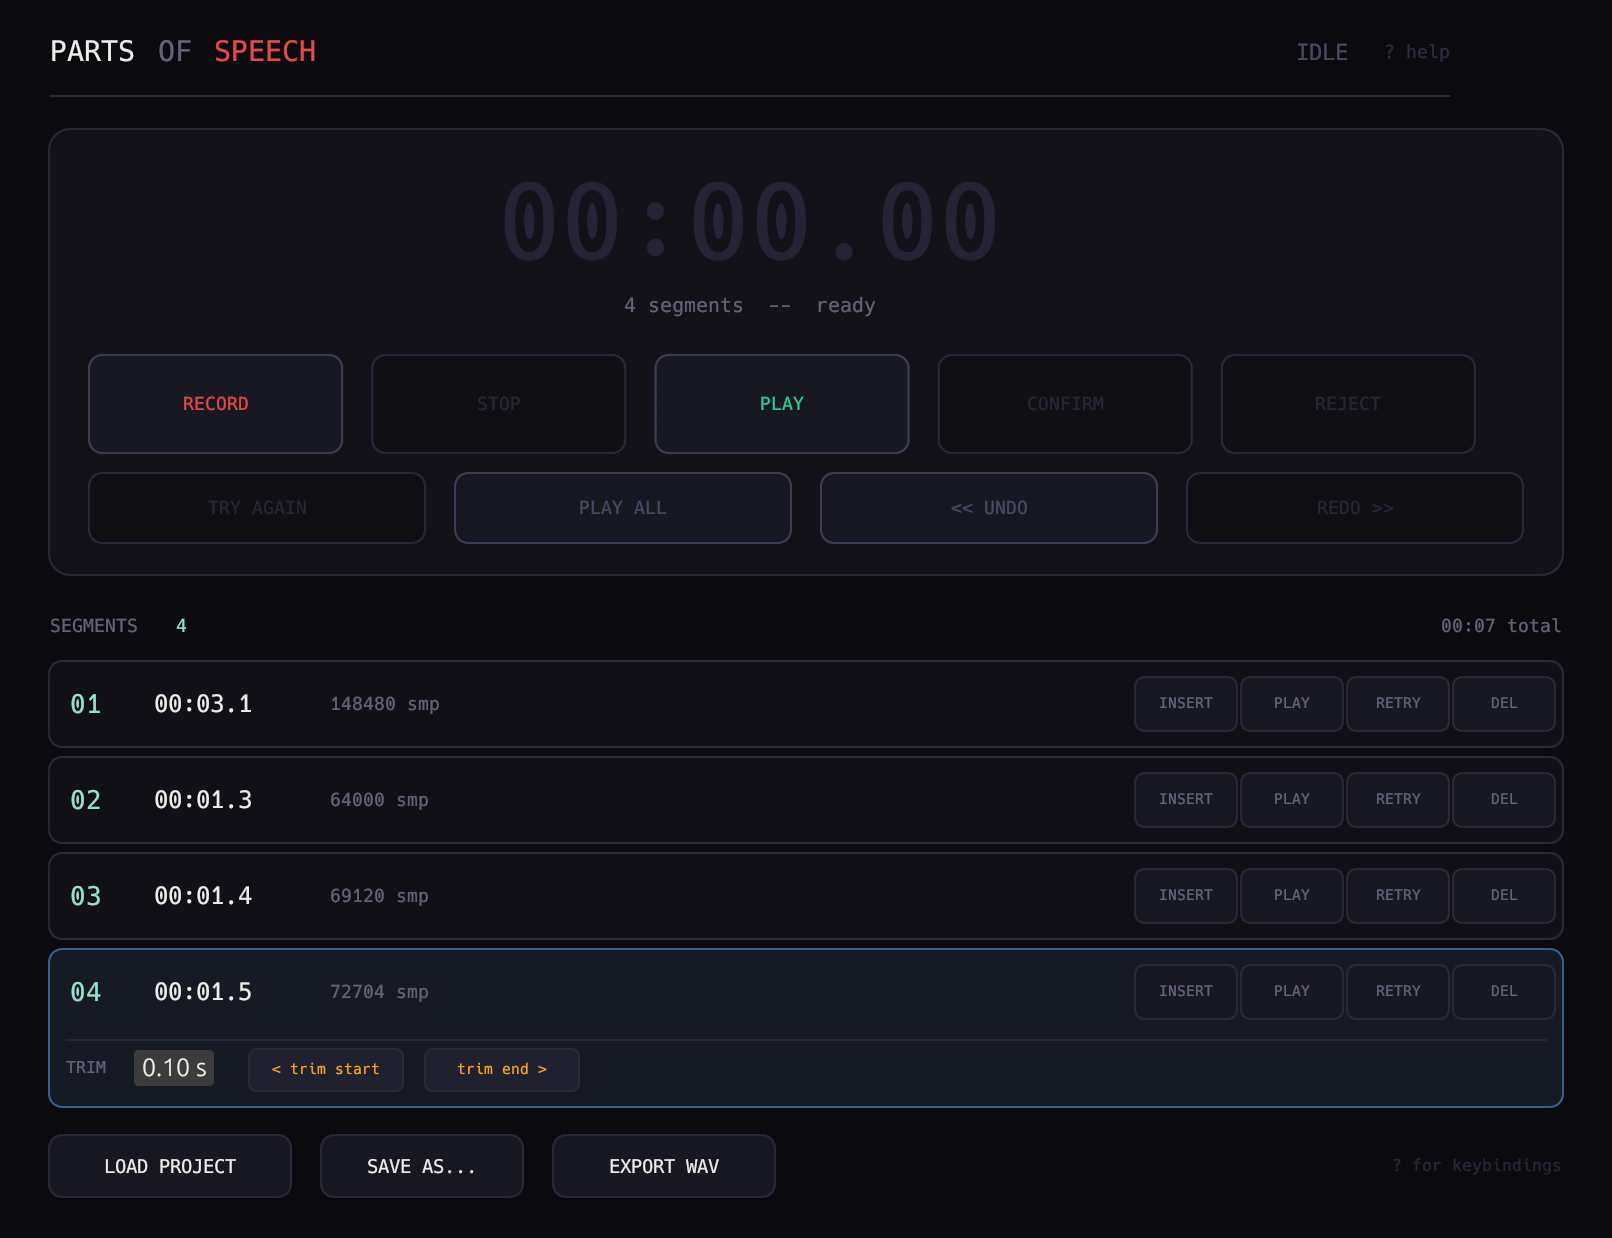
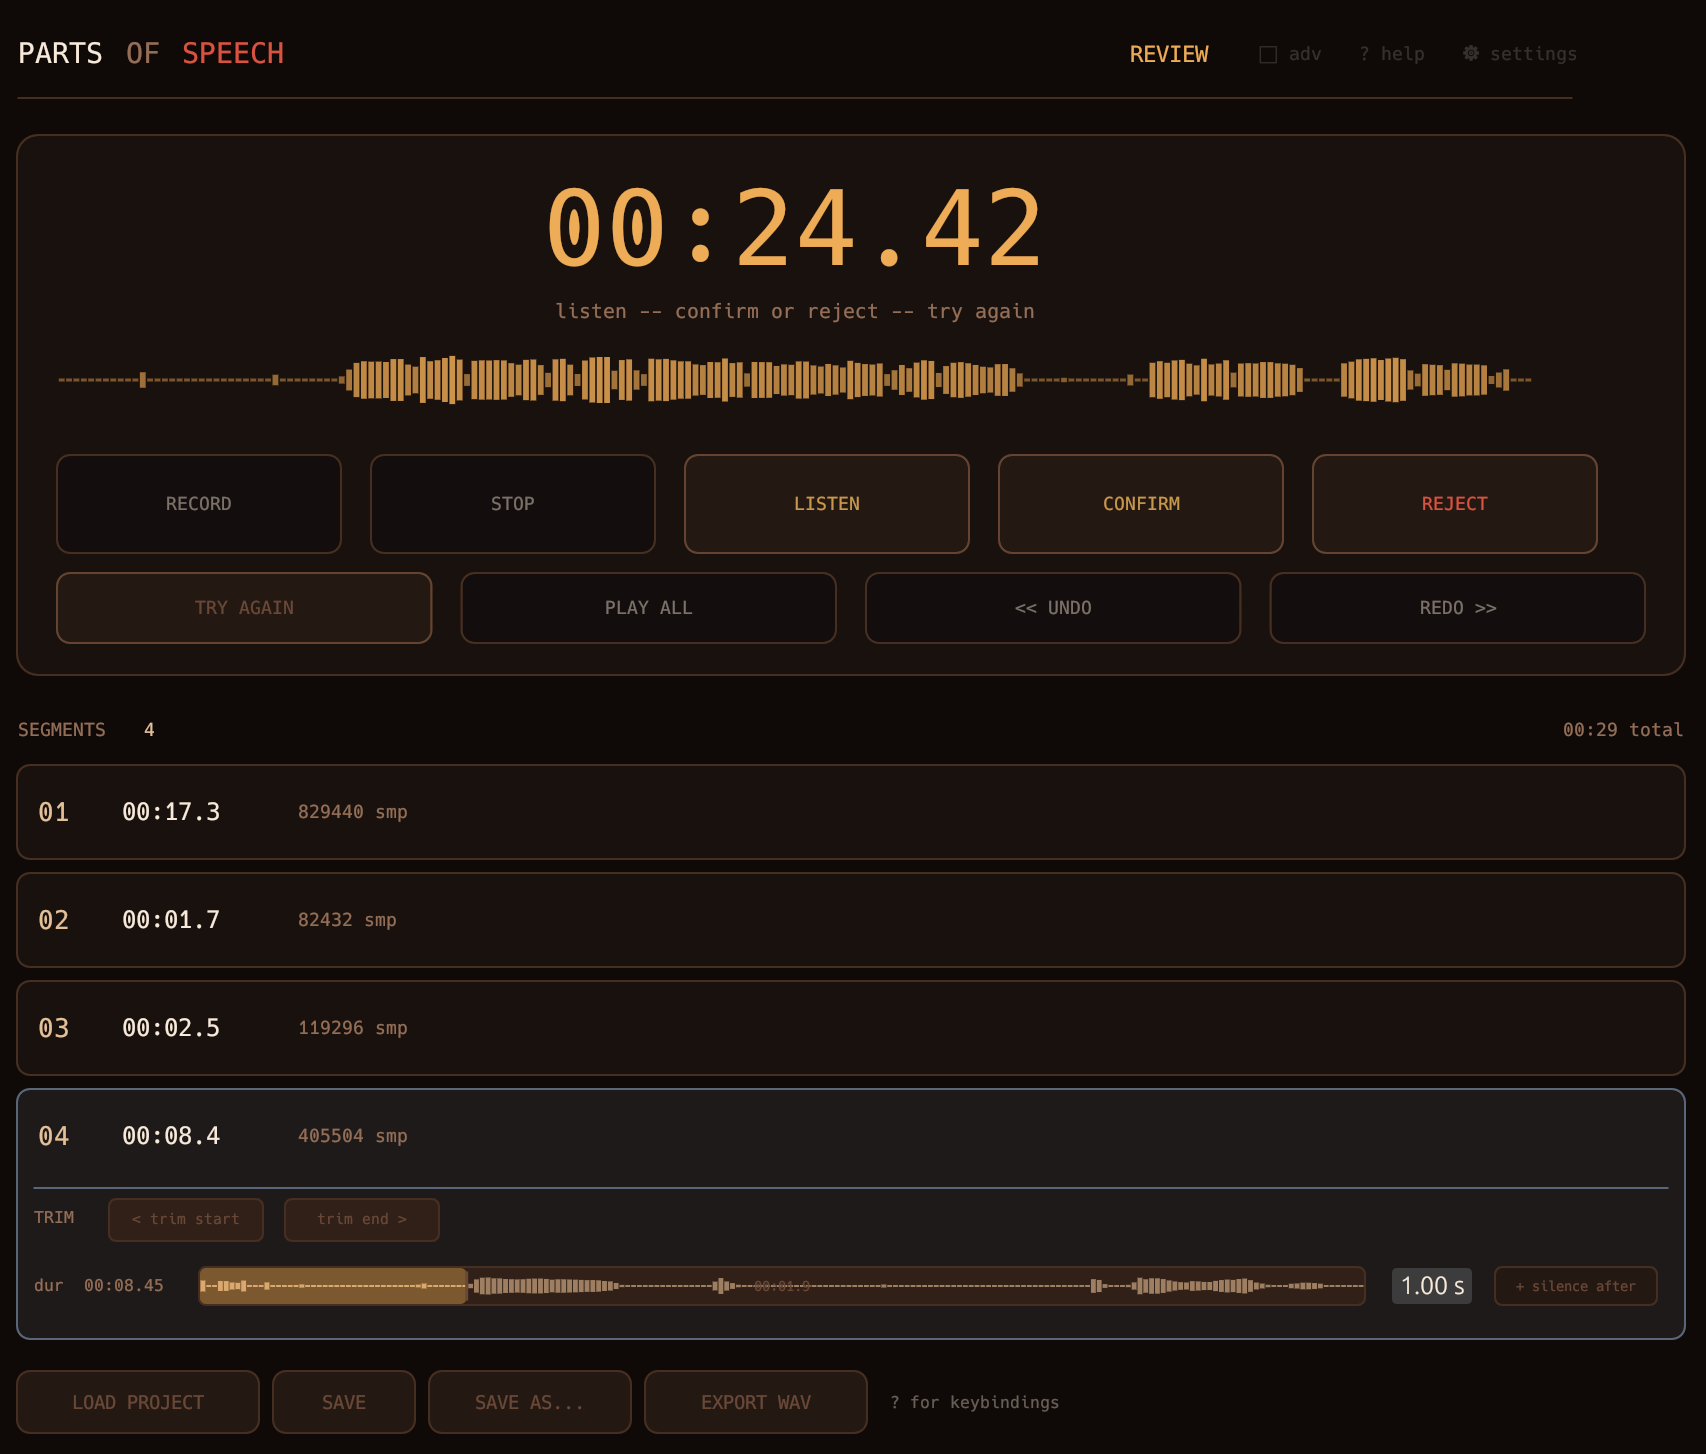
Added: minimal mode toggle for simpler UI

diff --git a/src/gui.rs b/src/gui.rs
@@ -61,20 +61,21 @@ impl eframe::App for RecorderApp {
                 // safely max out at 960px on wide screens.
                 let max_width = 960.0;
                 let side_pad = ((avail - max_width) / 2.0).max(16.0);
-                
                 egui::Frame::none()
                     .inner_margin(egui::Margin { left: side_pad, right: side_pad + 55.0, top: 24.0, bottom: 20.0 })
                     .show(ui, |ui| {
                         // all elements share the exact same width bounds intrinsically.
                         self.draw_header(ui, ctx);
                         ui.add_space(18.0);
-                        self.draw_transport_card(ui, ctx);
-                        
-                        ui.add_space(16.0);
-                        self.draw_segment_list(ui, ctx);
-                        ui.add_space(14.0);
-                        
-                        self.draw_footer(ui, ctx);
+                        if self.minimal_mode {
+                            self.draw_minimal_mode(ui, ctx);
+                        } else { // advanced layout
+                            self.draw_transport_card(ui, ctx);
+                            ui.add_space(16.0);
+                            self.draw_segment_list(ui, ctx);
+                            ui.add_space(14.0);
+                            self.draw_footer(ui, ctx);
+                        }
                     });
                 if self.show_keybindings {
                     self.draw_keybindings_overlay(ctx);
@@ -215,12 +216,33 @@ impl RecorderApp {
                 let (kb_r, kb_resp) = ui.allocate_exact_size(Vec2::new(40.0, 16.0), Sense::click());
                 let kb_col = if self.show_keybindings { mono }
                     else if kb_resp.hovered() { dim } else { ghost_inactive(self.palette.bg, 38) };
+                // keybinds
                 ui.painter().text(kb_r.center(), egui::Align2::CENTER_CENTER,
                     "? help", FontId::monospace(9.0), kb_col);
                 if kb_resp.clicked() {
                     self.show_keybindings = !self.show_keybindings;
                     self.show_settings = false;
                 }
+
+                // mode toggle
+                let (mode_r, mode_resp) = ui.allocate_exact_size(
+                    Vec2::new(46.0, 16.0),
+                    Sense::click(),
+                );
+                let mode_label = if self.minimal_mode { "⬛ min" } else { "⬜ adv" };
+                let mode_col = if mode_resp.hovered() { dim } else { ghost_inactive(self.palette.bg, 38) };
+                ui.painter().text(
+                    mode_r.center(),
+                    egui::Align2::CENTER_CENTER,
+                    mode_label,
+                    FontId::monospace(9.0),
+                    mode_col,
+                );
+                if mode_resp.clicked() {
+                    self.minimal_mode = !self.minimal_mode;
+                }
+
+                // status badge
                 ui.add_space(10.0);
                 self.draw_status_badge(ui);
             });
@@ -1586,6 +1608,226 @@ impl RecorderApp {
                 && state_str == "idle" && !playing
             {
                 self.handle_command(Command::Redo);
+            }
+        });
+    }
+
+    fn draw_minimal_mode(&mut self, ui: &mut egui::Ui, _ctx: &egui::Context) {
+        let p = &self.palette;
+
+        // snapshot state (lock & drop)
+        let (state_str, is_playing, cur_samples, sample_rate) = {
+            let rec = self.recorder.lock().unwrap_or_else(|e| e.into_inner());
+            let s = match &rec.state {
+                AppState::Idle      => "idle",
+                AppState::Recording => "recording",
+                AppState::Reviewing => "reviewing",
+            };
+            let ip = rec.playback_state == PlaybackState::Playing;
+            let cs = rec.current.as_ref().map(|c| c.samples.len()).unwrap_or(0);
+            (s, ip, cs, rec.project.sample_rate)
+        };
+
+        let secs = cur_samples as f32 / sample_rate.max(1) as f32;
+        let timer_str = if state_str != "idle" {
+            format!(
+                "{:02}:{:02}.{:02}",
+                (secs / 60.0) as u32,
+                (secs % 60.0) as u32,
+                ((secs % 1.0) * 100.0) as u32
+            )
+        } else {
+            "00:00.00".into()
+        };
+
+        ui.vertical_centered(|ui| {
+            ui.add_space(48.0);
+
+            // Timer
+            let timer_color = match state_str {
+                "recording"               => p.rec,
+                "reviewing" if is_playing => p.amber,
+                "reviewing"               => p.text,
+                _                         => p.dim,
+            };
+            ui.label(
+                RichText::new(&timer_str)
+                    .font(FontId::monospace(64.0))
+                    .color(timer_color),
+            );
+
+            ui.add_space(10.0);
+
+            // Status hint
+            let hint = match state_str {
+                "recording"               => "S to stop",
+                "reviewing" if is_playing => "playing back ...",
+                "reviewing"               => "C confirm  ·  X reject  ·  T retry",
+                _                         => "R to record",
+            };
+            ui.label(
+                RichText::new(hint)
+                    .font(FontId::monospace(10.0))
+                    .color(p.dim),
+            );
+
+            ui.add_space(28.0);
+
+            // Waveform slot, painted only when there is data
+            let wf_h = 54.0_f32;
+            let (wf_rect, _) = ui.allocate_exact_size(
+                Vec2::new(ui.available_width(), wf_h),
+                Sense::hover(),
+            );
+
+            if !self.live_peaks.is_empty() && state_str != "idle" {
+                let wf_color = if state_str == "recording" { p.rec } else { p.amber };
+                let n       = self.live_peaks.len();
+                let bar_w   = wf_rect.width() / n as f32;
+                let cy      = wf_rect.center().y;
+                let half_h  = wf_h * 0.46;
+
+                for (i, &peak) in self.live_peaks.iter().enumerate() {
+                    let x       = wf_rect.min.x + i as f32 * bar_w;
+                    let display = if peak < 1e-6 {
+                        0.0
+                    } else {
+                        ((20.0 * peak.log10() + 60.0) / 60.0).clamp(0.0, 1.0)
+                    };
+                    let bar_h   = (display * half_h * 2.0).max(1.5);
+                    let bar_rect = Rect::from_center_size(
+                        Pos2::new(x + bar_w * 0.5, cy),
+                        Vec2::new((bar_w - 0.8).max(0.5), bar_h),
+                    );
+                    let alpha = ((display * 180.0) + 40.0).min(255.0) as u8;
+                    ui.painter().rect_filled(
+                        bar_rect,
+                        Rounding::ZERO,
+                        Color32::from_rgba_unmultiplied(
+                            wf_color.r(), wf_color.g(), wf_color.b(), alpha,
+                        ),
+                    );
+                }
+            }
+
+            ui.add_space(32.0);
+
+            // primary action circle
+            let btn_size = 160.0_f32;
+            let (rect, resp) = ui.allocate_exact_size(
+                Vec2::new(btn_size, btn_size),
+                Sense::click(),
+            );
+            let hov = resp.hovered();
+
+            let (btn_label, btn_col, font_size) = match state_str {
+                "recording"               => ("STOP", p.rec,   22.0_f32),
+                "reviewing" if is_playing => ("■",    p.amber, 30.0),
+                "reviewing"               => ("▶",    p.play,  30.0),
+                _                         => ("REC",  p.rec,   26.0),
+            };
+
+            let fill = if hov {
+                Color32::from_rgba_unmultiplied(btn_col.r(), btn_col.g(), btn_col.b(), 38)
+            } else {
+                p.surf2
+            };
+            ui.painter().circle_filled(rect.center(), btn_size / 2.0, fill);
+            ui.painter().circle_stroke(
+                rect.center(),
+                btn_size / 2.0,
+                Stroke::new(2.0, if hov { btn_col } else { p.border }),
+            );
+            // Nudge the play triangle slightly right so it looks visually centred
+            let label_offset = if btn_label == "▶" { Vec2::new(3.0, 0.0) } else { Vec2::ZERO };
+            ui.painter().text(
+                rect.center() + label_offset,
+                egui::Align2::CENTER_CENTER,
+                btn_label,
+                FontId::monospace(font_size),
+                btn_col,
+            );
+
+            if resp.clicked() {
+                match state_str {
+                    "idle"      => self.handle_command(Command::StartRecording),
+                    "recording" => self.handle_command(Command::StopRecording),
+                    "reviewing" => {
+                        if is_playing { self.handle_command(Command::StopPlayback); }
+                        else          { self.play_current_segment(); }
+                    }
+                    _ => {}
+                }
+            }
+
+            ui.add_space(28.0);
+
+            // Review action row
+            let row_h = 44.0_f32;
+            let row_w = ui.available_width();
+            let (row_rect, _) = ui.allocate_exact_size(
+                Vec2::new(row_w, row_h),
+                Sense::hover(),
+            );
+
+            if state_str == "reviewing" && !is_playing {
+                let gap   = 8.0_f32;
+                let btn_w = (row_w - gap * 2.0) / 3.0;
+
+                // Reject
+                let reject_rect = Rect::from_min_size(
+                    row_rect.min,
+                    Vec2::new(btn_w, row_h),
+                );
+                let rr = ui.interact(reject_rect, ui.id().with("min_reject"), Sense::click());
+                let rh = rr.hovered();
+                ui.painter().rect(
+                    reject_rect, Rounding::same(8.0),
+                    if rh { Color32::from_rgba_unmultiplied(p.rec.r(), p.rec.g(), p.rec.b(), 22) }
+                    else  { Color32::TRANSPARENT },
+                    Stroke::new(1.0, if rh { p.rec } else { p.border }),
+                );
+                ui.painter().text(reject_rect.center(), egui::Align2::CENTER_CENTER,
+                    "✖  REJECT", FontId::monospace(11.0),
+                    if rh { p.rec } else { p.muted });
+
+                // Retry (centre)
+                let retry_rect = Rect::from_min_size(
+                    Pos2::new(row_rect.min.x + btn_w + gap, row_rect.min.y),
+                    Vec2::new(btn_w, row_h),
+                );
+                let tr = ui.interact(retry_rect, ui.id().with("min_retry"), Sense::click());
+                let th = tr.hovered();
+                ui.painter().rect(
+                    retry_rect, Rounding::same(8.0),
+                    if th { Color32::from_rgba_unmultiplied(p.muted.r(), p.muted.g(), p.muted.b(), 18) }
+                    else  { Color32::TRANSPARENT },
+                    Stroke::new(1.0, if th { p.dim } else { p.border }),
+                );
+                ui.painter().text(retry_rect.center(), egui::Align2::CENTER_CENTER,
+                    "↺  RETRY", FontId::monospace(11.0),
+                    if th { p.text } else { p.muted });
+
+                // Confirm
+                let confirm_rect = Rect::from_min_size(
+                    Pos2::new(row_rect.min.x + (btn_w + gap) * 2.0, row_rect.min.y),
+                    Vec2::new(btn_w, row_h),
+                );
+                let cr = ui.interact(confirm_rect, ui.id().with("min_confirm"), Sense::click());
+                let ch = cr.hovered();
+                ui.painter().rect(
+                    confirm_rect, Rounding::same(8.0),
+                    if ch { Color32::from_rgba_unmultiplied(p.play.r(), p.play.g(), p.play.b(), 22) }
+                    else  { Color32::TRANSPARENT },
+                    Stroke::new(1.0, if ch { p.play } else { p.border }),
+                );
+                ui.painter().text(confirm_rect.center(), egui::Align2::CENTER_CENTER,
+                    "✔  CONFIRM", FontId::monospace(11.0),
+                    if ch { p.play } else { p.muted });
+
+                if rr.clicked() { self.handle_command(Command::Reject); }
+                if tr.clicked() { self.handle_command(Command::RetryCurrentTake); }
+                if cr.clicked() { self.handle_command(Command::Approve); }
             }
         });
     }

diff --git a/src/main.rs b/src/main.rs
@@ -103,12 +103,14 @@ pub struct RecorderApp {
     // live_peaks is a VecDeque of peak values, one per BUCKET_SAMPLES samples
     // At most MAX_LIVE_BUCKETS entries.  Oldest bucket falls/scrolls off
     // the left as recording progresses
+    pub live_peaks:         VecDeque<f32>,
     // live_sample_cursor: how many samples from current.samples have already
     // been committed into buckets.  Each update, clone ONLY the slice
     // [live_sample_cursor..], which is always small (~50 ms of audio)
     // which keeps the clone O(new data) instead of O(total recording length)
-    pub live_peaks:         VecDeque<f32>,
     pub live_sample_cursor: usize,
+    // switch between minimal and advanced mode
+    pub minimal_mode: bool,
 }
 
 impl RecorderApp {
@@ -140,6 +142,7 @@ impl RecorderApp {
             waveform_cache:    HashMap::new(),
             live_peaks:        VecDeque::new(),
             live_sample_cursor: 0,
+            minimal_mode: false,
         }
     }
 
@@ -400,7 +403,6 @@ impl RecorderApp {
                     None
                 };
 
-                // Stale segment caches — same approach as before.
                 let seg_updates: Vec<(usize, usize, Vec<f32>)> = rec.project.segments
                     .iter()
                     .enumerate()
@@ -416,15 +418,14 @@ impl RecorderApp {
                 let seg_count = rec.project.segments.len();
                 Some((is_active, new_tail, seg_updates, seg_count))
             }
-            // Audio thread has the lock — skip this frame, zero audio impact.
             Err(_) => None,
         };
-        // Lock is dropped here ── all work below operates on owned data ──────
+        // Lock is dropped here all work below operates on owned data
 
         let Some((is_active, new_tail, seg_updates, seg_count)) = snapshot
         else { return; };
 
-        // ── Live waveform ─────────────────────────────────────────────────
+        // -- Live waveform -------------------------------------------------
         if !is_active {
             // State left recording/reviewing — reset for next take.
             if !self.live_peaks.is_empty() {
@@ -451,7 +452,7 @@ impl RecorderApp {
             }
         }
 
-        // ── Segment caches ────────────────────────────────────────────────
+        // Segment caches
         for (idx, sample_count, samples) in seg_updates {
             let peaks = compute_waveform_peaks(&samples, SEG_BUCKETS);
             self.waveform_cache.insert(idx, (sample_count, peaks));
@@ -490,7 +491,7 @@ fn run_cli() {
         if clear {
             print!("\x1B[2J\x1B[H");
             println!("{}", "=".repeat(60).cyan());
-            println!("  {} — {}", "PARTS OF SPEECH".bold().bright_white(), "CLI Mode".italic());
+            println!("  {} : {}", "PARTS OF SPEECH".bold().bright_white(), "CLI Mode".italic());
             println!("{}", "  (run with --gui for the graphical interface)".dimmed());
             println!("{}", "=".repeat(60).cyan());
             println!("\n{}", "  COMMANDS".underline());

diff --git a/src/audio_input.rs b/src/audio_input.rs
@@ -25,7 +25,7 @@ pub fn start_input_stream(
         let mut rec = recorder.lock().unwrap();
         rec.project.sample_rate = hardware_sample_rate;
         rec.project.channels = hardware_channels;
-        println!("Hardware: {}Hz, {} channel(s)", hardware_sample_rate, hardware_channels);
+        // println!("Hardware: {}Hz, {} channel(s)", hardware_sample_rate, hardware_channels);
     }
 
     let stream = device.build_input_stream(
